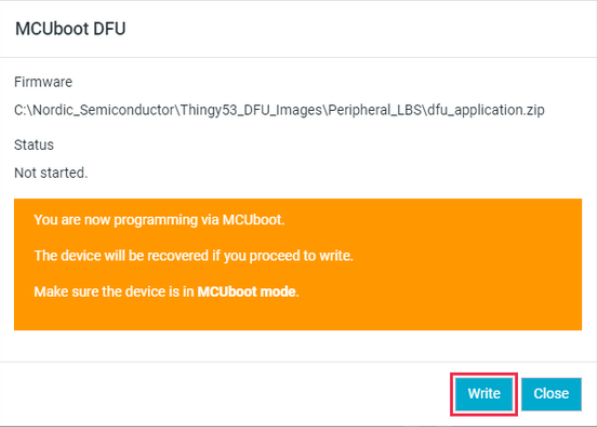
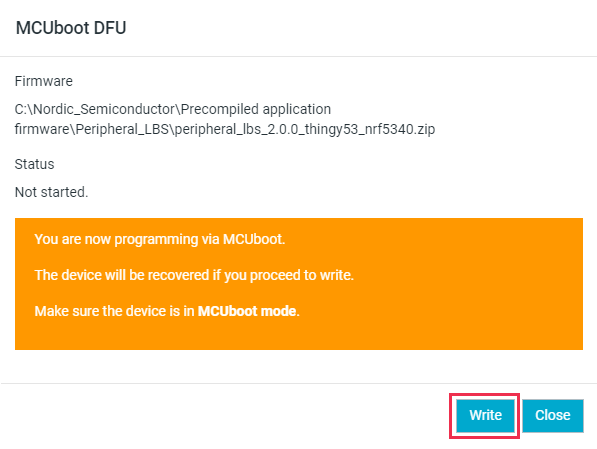
doc: fix file name reference in Thingy53 GSG
The file names and structure changed in the application firmware
.zip that is provided for Nordic Thingy:53. This updates
the Getting started documentation to match the new naming.

diff --git a/doc/nrf/ug_thingy53_gs.rst b/doc/nrf/ug_thingy53_gs.rst
@@ -161,7 +161,9 @@ Complete the following steps to update the firmware:
 
    A file explorer window appears.
 #. Navigate to the folder where you extracted the application firmware.
-#. Select the :file:`dfu_application.zip` and click :guilabel:`Open`.
+#. Open the :file:`Peripheral_LBS` folder, select the update file and click :guilabel:`Open`.
+
+   The update file is titled :file:`peripheral_lbs_<version-number>_thingy53_nrf5340.zip`.
 #. Click the :guilabel:`Write` button in the :guilabel:`Device` section.
 
    The :guilabel:`MCUboot DFU` window appears.
@@ -237,9 +239,9 @@ Do no unplug or power off the devices during this process.
 #. Click :guilabel:`Add file` in the :guilabel:`File` section, and select :guilabel:`Browse`.
 
    A file explorer window appears.
-#. Navigate to the folder where you extracted application firmware.
-#. Open the :file:`img_app_bl` folder that contains the HEX files used with the debug probe.
-#. Select the HEX file for the application that you want to transfer to the Nordic Thingy:53 and click :guilabel:`Open`.
+#. Navigate to the folder where you extracted the application firmware.
+#. Open the folder for the application that you want to transfer to the Nordic Thingy:53.
+#. Select the corresponding HEX file to be used with the debug probe and click :guilabel:`Open`.
 
    The HEX file appears in the :guilabel:`File memory layout` section.
 #. Click :guilabel:`Erase & write` in the :guilabel:`Device` section of the side panel.
